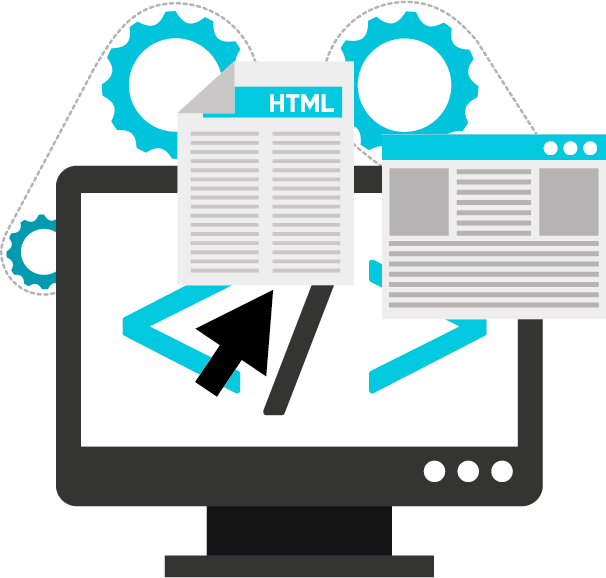
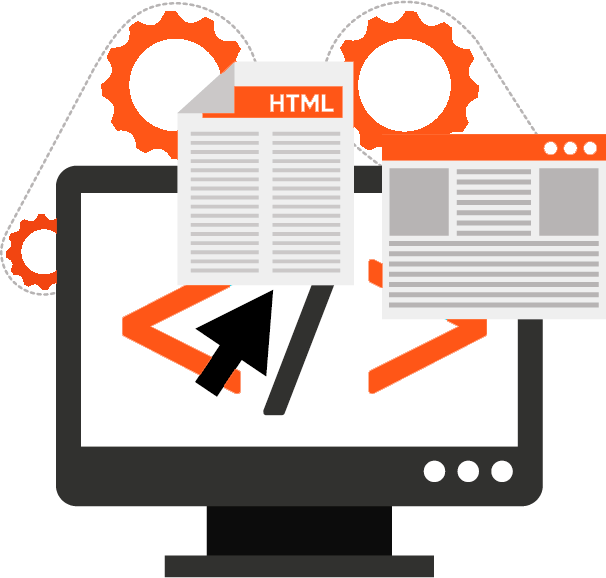
starting work in projects section

diff --git a/src/sections/projects/Projects.tsx b/src/sections/projects/Projects.tsx
@@ -1,0 +1,70 @@
+import React from 'react';
+import styles from './projects.module.scss'
+
+const projectsItems = [
+    {
+        name: 'MEWEE',
+        description: 'webstorm.svg',
+        image: '/mewee.png',
+        stack: ['JavaScript', 'TypeScript', 'HTML', 'CSS'],
+        liveLink: 'https://www.jetbrains.com/webstorm/',
+        gitLink: 'https://github.com/JetBrains/webstorm'
+    },
+    {
+        name: 'Portfolio',
+        description: 'webstorm.svg',
+        image: '/portfolio.png',
+        stack: ['JavaScript', 'TypeScript', 'HTML', 'CSS'],
+        liveLink: 'https://www.jetbrains.com/webstorm/',
+        gitLink: 'https://github.com/JetBrains/webstorm'
+    },
+    {
+        name: 'WoDOTA',
+        description: 'webstorm.svg',
+        image: '/wodota.png',
+        stack: ['JavaScript', 'TypeScript', 'HTML', 'CSS'],
+        liveLink: 'https://www.jetbrains.com/webstorm/',
+        gitLink: 'https://github.com/JetBrains/webstorm'
+    }
+];
+
+
+export const Projects = () => {
+    return (
+        <section id="projects" className={styles.div}>
+            <h1 className={styles.projects_text}>Проекти</h1>
+            <div className={styles.grid}>
+                {projectsItems.map((item) => (
+                    <div key={item.name} className={styles.card}>
+                        <img src={item.image} alt={item.name} className={styles.image}/>
+                        <div className={styles.card_container}>
+                            <h2 className={styles.card_name}>{item.name}</h2>
+                            <p className={styles.card_description}>{item.description}</p>
+                            <div className={styles.line}></div>
+                            <h3>Стек</h3>
+                            <ul className={styles.stack_list}>
+                                {item.stack.map((tech) => (
+                                    <li key={tech} className={styles.stack_item}>{tech}</li>
+                                ))}
+                            </ul>
+                            <div className={styles.card_buttons}>
+                                {item.gitLink && (
+                                    <a href={item.gitLink} target="_blank" rel="noopener noreferrer"
+                                       className={styles.button}>
+                                        Посмотреть код
+                                    </a>
+                                )}
+                                {item.liveLink && (
+                                    <a href={item.liveLink} target="_blank" rel="noopener noreferrer"
+                                       className={styles.button}>
+                                        Посмотреть вживую
+                                    </a>
+                                )}
+                            </div>
+                        </div>
+                    </div>
+                ))}
+            </div>
+        </section>
+    );
+};

diff --git a/src/sections/intro/Intro.tsx b/src/sections/intro/Intro.tsx
@@ -1,12 +1,24 @@
 import React from 'react';
 import styles from './intro.module.scss'
 
+const AnimatedText: React.FC<{ text: string; className?: string }> = ({ text, className }) => {
+    return (
+        <h1 className={className}>
+            {text.split('').map((char, idx) => (
+                <span key={idx} className={styles.letter}>
+          {char === ' ' ? '\u00A0' : char}
+        </span>
+            ))}
+        </h1>
+    );
+};
+
 export const Intro = () => {
     return (
         <section id="intro" className={styles.div}>
             <div className={styles.text_container}>
-                <h1 className={styles.text}>FRONT-END</h1>
-                <h1 className={styles.text}>DEVELOPER</h1>
+                <AnimatedText text="FRONT-END" className={styles.text} />
+                <AnimatedText text="DEVELOPER" className={styles.text} />
                 <button
                     className={styles.button_github}
                     onClick={() => window.open('https://github.com/hope2k-qq', '_blank')}

diff --git a/src/sections/projects/projects.module.scss b/src/sections/projects/projects.module.scss
@@ -1,0 +1,64 @@
+.projects_text{
+  color: #141414;
+  font-weight: bold;
+  font-size: 3.2rem;
+  margin: 4rem 0 6rem 0;
+  text-align: center;
+}
+
+.grid {
+  display: grid;
+  grid-template-columns: repeat(2, 1fr);
+  gap: 2rem;
+}
+.grid > :nth-last-child(1):nth-child(odd) {
+  grid-column: 1 / span 2;
+  justify-self: center;
+  width: 50%;
+}
+
+.card {
+  width: 100%;
+  box-sizing: border-box;
+  display: flex;
+  flex-direction: column;
+  align-items: start;
+  background-color: #fff;
+  border-radius: 1rem;
+  box-shadow: 0 0 20px rgba(0, 0, 0, 0.3);
+  overflow: hidden;
+}
+
+.card_name{
+  margin: 0;
+  font-size: 1.8rem;
+}
+
+.card_container{
+  max-width: 100%;
+  width: 100%;
+  padding: 1.2rem 2em;
+  box-sizing: border-box;
+}
+
+.card_description{
+  font-size: 1.2rem;
+  font-weight: 400;
+  line-height: 1.5;
+}
+
+.line {
+  width: 100%;
+  height: 2px;
+  background-color: #ff5722;
+  margin: 1rem 0;
+  border-radius: 2px;
+}
+
+
+
+
+.image {
+  width: 100%;
+  height: auto;
+}

diff --git a/src/index.css b/src/index.css
@@ -6,6 +6,28 @@ body {
 }
 
 code {
-  font-family: source-code-pro, Menlo, Monaco, Consolas, 'Courier New',
-    monospace;
+  font-family: 'Inter', sans-serif;
 }
+
+::-webkit-scrollbar {
+  width: 7px;
+  height:7px;
+}
+
+
+::-webkit-scrollbar-thumb {
+  background: #ff5722;
+  border-radius: 10px;
+}
+::-webkit-scrollbar-track {
+  background-color: white;
+  border-radius: 10px;
+}
+
+@media (max-width: 900px) {
+  ::-webkit-scrollbar {
+    width: auto;
+    height: auto;
+  }
+}
+

diff --git a/src/app/App.tsx b/src/app/App.tsx
@@ -4,6 +4,7 @@ import {Intro} from "../sections/intro/Intro";
 import {TopBar} from "../components/topbar/TopBar";
 import {About} from "../sections/about/About";
 import {TechStack} from "../sections/techStack/TechStack";
+import {Projects} from "../sections/projects/Projects";
 
 function App() {
   return (
@@ -13,6 +14,7 @@ function App() {
             <Intro />
             <About />
             <TechStack />
+            <Projects />
         </div>
     </div>
   );

diff --git a/src/sections/techStack/tech_stack.module.scss b/src/sections/techStack/tech_stack.module.scss
@@ -1,7 +1,7 @@
 .stack_text{
   color: #141414;
   font-weight: bold;
-  font-size: 4rem;
+  font-size: 3.2rem;
   margin: 4rem 0 6rem 0;
   text-align: center;
 }
@@ -9,7 +9,7 @@
 .tools_text{
   color: #141414;
   font-weight: bold;
-  font-size: 2rem;
+  font-size: 1.6rem;
   margin: 4rem 0 3.5rem 0;
   text-align: center;
 }

diff --git a/src/sections/intro/intro.module.scss b/src/sections/intro/intro.module.scss
@@ -11,6 +11,19 @@
   line-height: 1;
   margin: 0;
   color: #141414;
+  user-select: none;
+  font-weight: bold;
+}
+
+.letter {
+  display: inline-block;
+  transition: transform 0.3s ease, color 0.3s ease;
+  cursor: default;
+}
+
+.letter:hover {
+  transform: translateY(-10px);
+  color: #ff5722;
 }
 
 .text_container{

diff --git a/src/components/languageSwitcher/language_switcher.module.scss b/src/components/languageSwitcher/language_switcher.module.scss
@@ -16,9 +16,9 @@
   transition: color 0.3s ease;
 
   &:hover{
-    color: #00cae2;
+    color: #ff5722;
     > svg{
-      color: #00cae2;
+      color: #ff5722;
     }
   }
 }
@@ -63,7 +63,7 @@
   &:hover{
     opacity: 0.85;
     cursor: pointer;
-    color: #00cae2;
+    color: #ff5722;
   }
 }
 

diff --git a/src/sections/about/about.module.scss b/src/sections/about/about.module.scss
@@ -1,7 +1,7 @@
 .about_text{
   color: #141414;
   font-weight: bold;
-  font-size: 4rem;
+  font-size: 3.2rem;
   margin: 10rem 0 2rem 0;
   text-align: center;
 }

diff --git a/src/components/topbar/topbar.module.scss b/src/components/topbar/topbar.module.scss
@@ -41,7 +41,7 @@
   transition: fill 0.3s ease;
   &:hover{
     cursor: pointer;
-    fill: #00cae2;
+    fill: #ff5722;
   }
 }
 
